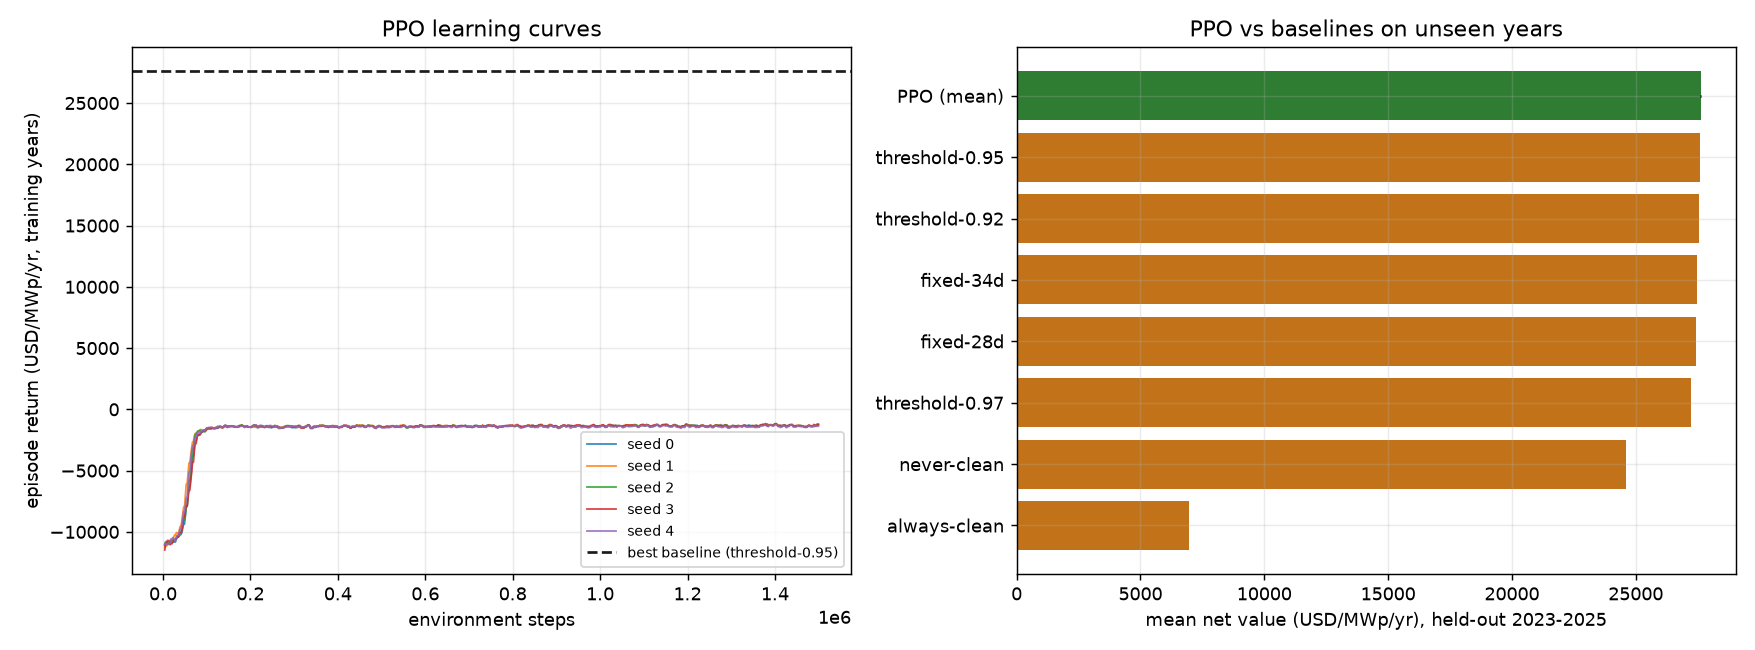
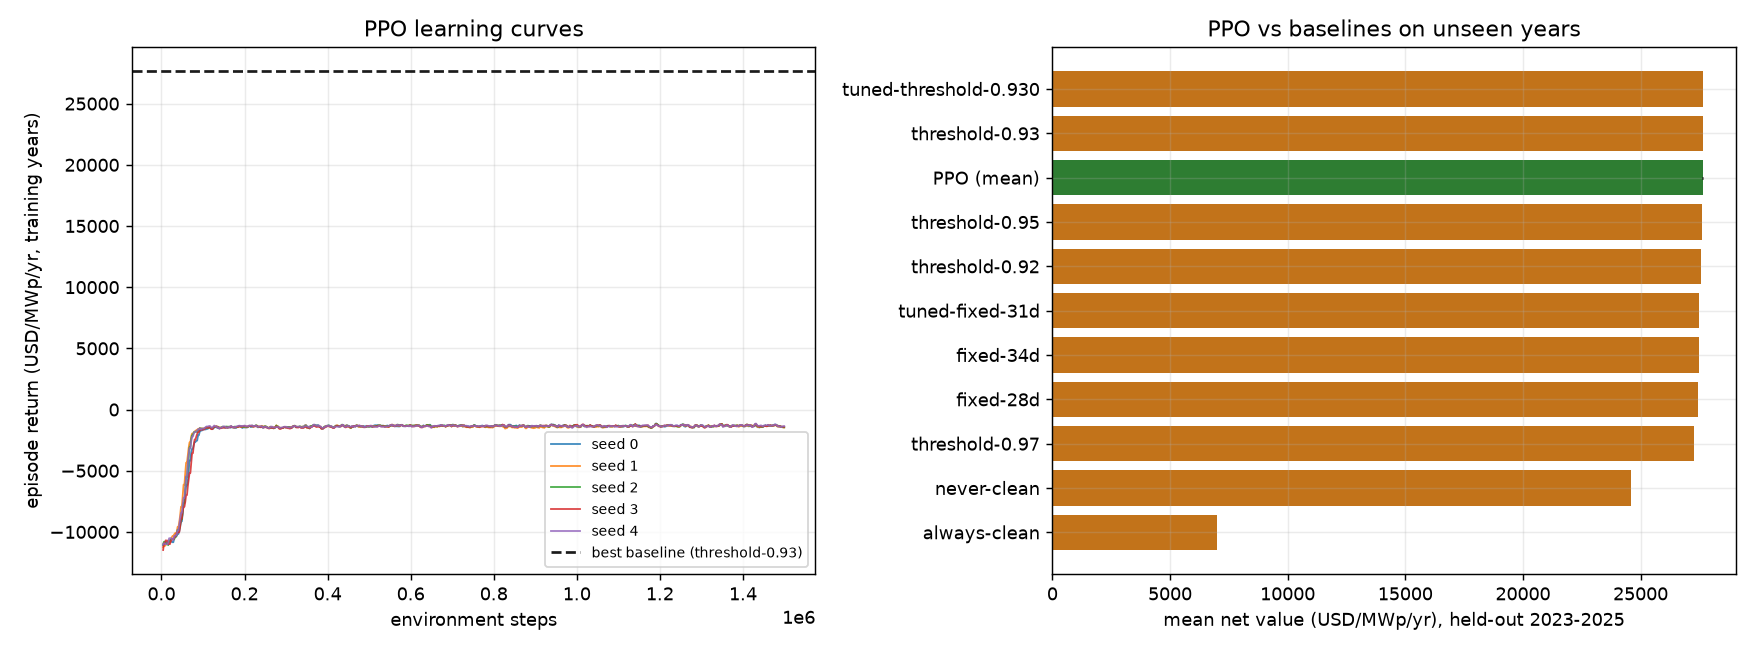
Close out: M4 archival record, M7 final verdict, findings published
Both outstanding runs are done and recorded.

M4 archival re-run: PASSED 5/5. PPO $27,635 +/- 10 against the tuned threshold
at $27,651, so the agent loses by $16 -- the same conclusion as the earlier run
reported ($24), with tighter seeds. The recorded output and figure now exist,
closing the last open item.

M7 with the corrected criterion: BOTH checks now FAIL, and the declared one is
the more interesting. With the post-hoc alpha selection removed, CVaR does not
rise monotonically as risk aversion increases -- $26,710 -> $26,752 -> $26,626
-> $26,641 as alpha falls from 1.00 to 0.10. The ordering is noise. The
distributional machinery works; the advantage never materialised.

That matters beyond bookkeeping. M7 had the best structural case for RL in the
whole project: a scalar threshold genuinely cannot represent "today's return
distribution is skewed", while a distributional agent can. It made no
difference. So the negative result is stronger than previously recorded -- not
merely "the agent loses to the rule", but "the mechanism that was supposed to
give the agent an edge does nothing measurable".

FINDINGS.md updated with both corrections and published as a shareable page.
Also states plainly that M7's declared criterion was recorded as passing and
does not survive re-examination.

diff --git a/FINDINGS.md b/FINDINGS.md
@@ -29,10 +29,12 @@ This is a negative result for the deep-RL framing and a positive, actionable one
 
 | # | Hypothesis: adaptive control should win because… | Result |
 |---|---|---|
-| **M4** | soiling is dynamic, so a learned policy beats a fixed schedule | PPO beat every fixed interval (+$127) but **lost to a tuned threshold** by $24 |
+| **M4** | soiling is dynamic, so a learned policy beats a fixed schedule | PPO beat every fixed interval (+$135) but **lost to a tuned threshold** by $16 |
 | **M5** | soiling is *latent*, so a threshold on a noisy reading must fail | Partial observability is **devastating** (−$5,418, 19.6%) — but a **Kalman filter fixes it**, and PPO still lost |
 | **M6** | cleaning is stochastic and machines wear out | Real but small ($190/yr). Learning *which* robot to use **lost at every cleaning frequency** |
-| **M7** | storms make returns fat-tailed, which a scalar threshold cannot express | A genuine risk/return frontier exists — but QR-DQN **lost to a CVaR-tuned threshold** by $163 (3× seed sd) |
+| **M7** | storms make returns fat-tailed, which a scalar threshold cannot express | A genuine risk/return frontier exists — but QR-DQN **lost to a CVaR-tuned threshold** by $163 (3× seed sd), **and its own risk dial did nothing** |
+
+M7 deserves the sharpest statement, because it was the milestone with the best structural case for RL: a scalar threshold genuinely cannot represent "today's return distribution is skewed," while a distributional agent can. It didn't matter. QR-DQN's CVaR did **not** rise monotonically as risk aversion increased — $26,710 → $26,752 → $26,626 → $26,641 as α fell from 1.00 to 0.10. The ordering is noise. The machinery worked; the advantage never materialised.
 
 ### The one finding that transfers directly to an operator
 
@@ -82,7 +84,9 @@ Five defects were caught by measurement rather than review. Each changed a resul
 
 **5. An unfair protocol nearly produced a second one.** M7's first result showed QR-DQN beating the rule by $166. The rule had been given **oracle threshold selection on its own test set**, the two were scored on **different year sets**, and the agent's CVaR came from **~1.5 tail samples**. Under a like-for-like protocol the rule wins by $163.
 
-**A methodological note.** Two checks in this project passed for the wrong reasons and had to be tightened: one compared means with no significance test (+$43 at p=0.194, later confirmed at n=5, p=0.030), and one selected the best risk level *after seeing the results* — a garden of forking paths that the better-powered evaluation then contradicted. Both are documented at the check site.
+**A methodological note.** Two checks in this project passed for the wrong reasons and had to be tightened. One compared means with no significance test (+$43 at p=0.194; later confirmed at n=5, p=0.030). The other selected the best risk level *after seeing the results* — with four risk levels, three seeds and a seed deviation around $50, the maximum of four noisy numbers beats the reference by chance. Replaced with a single pre-specified prediction, **that check now fails**, which is the honest verdict. Both are documented at the check site.
+
+It is worth being blunt about what that means: **M7's declared criterion was recorded as passing, and on re-examination it does not hold.** The correction makes the project's conclusion stronger, not weaker, which is precisely why it was worth making.
 
 ---
 

diff --git a/PROGRESS.md b/PROGRESS.md
@@ -14,7 +14,7 @@
 | Field | Value |
 |---|---|
 | **Current phase** | **Phase 4 — Development (Tier 1: M0–M4)** |
-| **Phase state** | **Tier 1 (M0–M4) and Tier 2 (M5–M7) complete.** Conclusion written to [FINDINGS.md](FINDINGS.md). **Awaiting Master's decision on what Tier 3 should be** — see below. |
+| **Phase state** | **Tier 1 (M0–M4) and Tier 2 (M5–M7) complete.** All acceptance scripts m0–m7 run and recorded. Conclusion in [FINDINGS.md](FINDINGS.md), published at https://claude.ai/code/artifact/6c6caf05-fc2b-4dcf-840f-d78089c025ee. **Awaiting Master's decision on Tier 3** — see below. |
 | **Blocked on** | Nothing. |
 | **Next action** | **Master decision.** All eight milestones are done and the conclusion is written. Tier 3 as originally planned (continual learning, offline RL, benchmark release) assumed an agent worth deploying; the finding is that a Kalman filter plus a threshold wins. Recommended Tier 3 is therefore **publication of the benchmark and the negative result**, not more agent machinery. |
 | **Code written so far** | `rimal/{config,data,physics,env,baselines,eval,agents}`, **133 passing tests**, `scripts/` verify m0–m7, `FINDINGS.md`. |
@@ -329,6 +329,10 @@ right* — a policy that collapses 20% of the time is not deployable.
    budget — independently confirming audit finding E2.
 3. **QR-DQN loses to a CVaR-tuned threshold**, like for like: rule CVaR **$26,890** vs
    agent **$26,727** (−$163) at seed sd $54.
+4. **And the declared criterion fails too.** With the post-hoc α selection removed, CVaR
+   does **not** rise monotonically with risk aversion: $26,710 → $26,752 → $26,626 →
+   $26,641 as α falls 1.00 → 0.10. The ordering is noise. The distributional machinery
+   worked; the advantage never materialised. **M7 declared: FAILED. M7 scrutiny: FAILED.**
 
 **A check of ours that passed for the wrong reason.** The declared CVaR criterion picked
 the best risk level *after seeing the results*; with four αs, three seeds and sd ≈ $50,
@@ -380,7 +384,7 @@ assumed an agent worth deploying. It is not the right Tier 3 for the result we g
 | 3 | ~~Public release?~~ | Master session | ✅ **Public, and staying public** — 2026-08-29 |
 | 4 | ~~Approve implementation plan?~~ | Master session | ✅ **Tier 1 approved** 2026-08-29 |
 | 6 | ~~Approve Tiers 2–3?~~ | Master session | ✅ **Tier 2 approved** 2026-08-29; Tier 3 still open |
-| 7 | Re-run `scripts/m4_verify.py` unattended for the archival record — the corrected run was stopped mid-seed-0 to free CPU for M5. PPO numbers are known and reproducible; only the recorded output and figure are missing. | Master session | ⏳ Open |
+| 7 | ~~Re-run `scripts/m4_verify.py` for the archival record.~~ | Master session | ✅ Done 2026-09-05: **M4 PASSED 5/5**, PPO $27,635 ± 10 vs tuned threshold $27,651 (−$16). Same conclusion as before, tighter seeds. |
 | 5 | ~~Authorise the initial push?~~ | Master session | ✅ Authorised and pushed 2026-08-29 |
 
 ---
